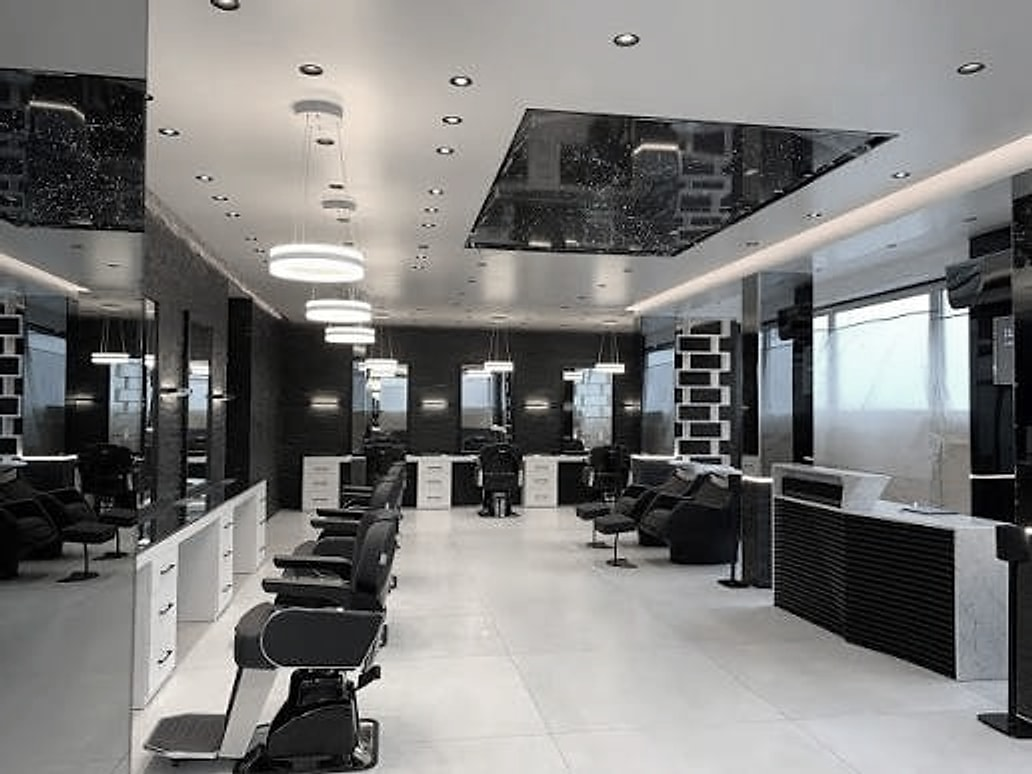
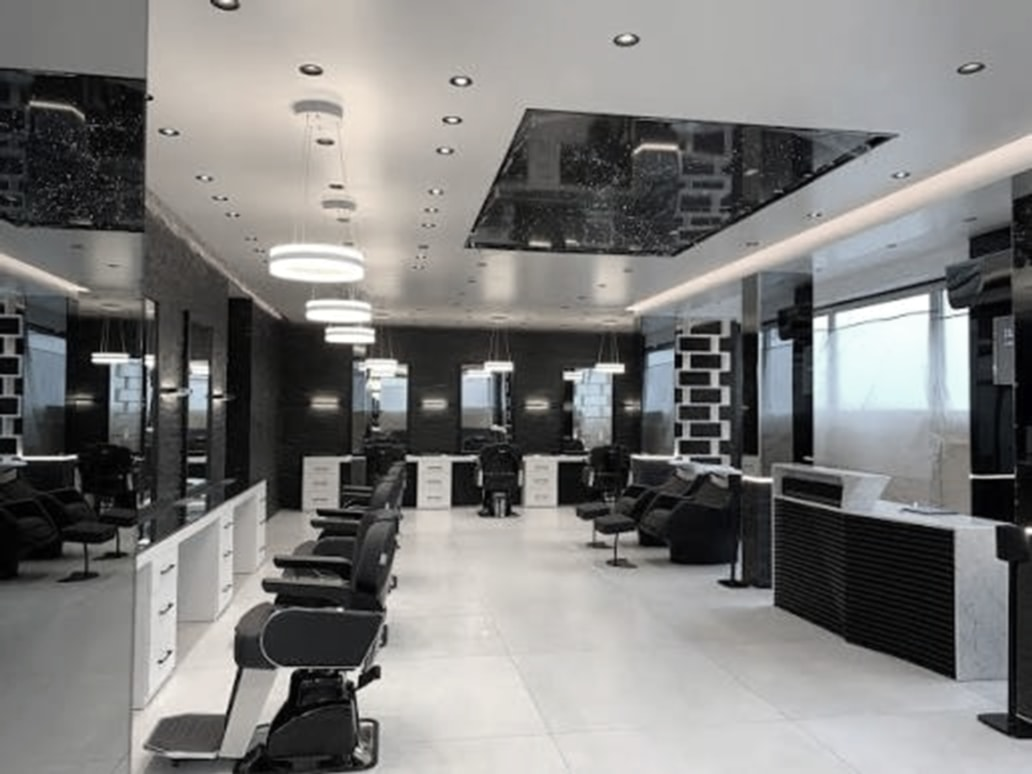
Demo-Buchung ohne Datenbank; Hero weicher
Auf Vercel ohne Supabase (oder mit BOOKING_DEMO=1) ist der Buchungsflow
voll klickbar und endet auf einer Bestätigungsseite mit Demo-Hinweis –
ohne Speichern und ohne E-Mails. Hero-Bild ohne Nachschärfen, weichere
Übergänge zum Text.

diff --git a/src/app/termin/bestaetigt/[id]/page.tsx b/src/app/termin/bestaetigt/[id]/page.tsx
@@ -8,8 +8,11 @@ import { euro, formatBerlin } from "@/lib/time";
 
 export const metadata: Metadata = { title: "Termin bestätigt", robots: { index: false } };
 
-export default async function ConfirmedPage({ params }: { params: Promise<{ id: string }> }) {
+type SP = Promise<Record<string, string | undefined>>;
+
+export default async function ConfirmedPage({ params, searchParams }: { params: Promise<{ id: string }>; searchParams: SP }) {
   const { id } = await params;
+  if (id === "demo") return <DemoConfirmation sp={await searchParams} />;
   if (!/^[0-9a-f-]{36}$/i.test(id)) notFound();
   const booking = await repo.getBooking(id);
   if (!booking) notFound();
@@ -27,17 +30,78 @@ export default async function ConfirmedPage({ params }: { params: Promise<{ id: 
   ];
 
   return (
+    <Confirmation
+      title={cancelled ? "Storniert." : <>Bis bald,<br />{firstName}.</>}
+      message={cancelled ? "Dieser Termin wurde storniert." : booking.email ? "Bestätigung ist per E-Mail unterwegs." : "Dein Termin ist gebucht."}
+      rows={rows}
+      actions={
+        !cancelled && (
+          <>
+            <a href={`/api/ics/${booking.id}`} className="btn btn-light w-full">
+              Zum Kalender hinzufügen
+            </a>
+            <Link href={`/termin/storno/${booking.cancel_token}`} className="btn btn-ghost-light w-full">
+              Termin stornieren
+            </Link>
+          </>
+        )
+      }
+    />
+  );
+}
+
+/** Demo-Modus: Daten kommen aus der URL, es existiert keine echte Buchung. */
+function DemoConfirmation({ sp }: { sp: Record<string, string | undefined> }) {
+  const start = sp.t && !Number.isNaN(Date.parse(sp.t)) ? sp.t : null;
+  if (!sp.n || !start) notFound();
+  const firstName = sp.n.trim().split(/\s+/)[0].slice(0, 40);
+  const rows: [string, string][] = [
+    ["Barber", sp.b || "–"],
+    ["Leistung", (sp.s ?? "").split("|").filter(Boolean).join(", ") || "–"],
+    ["Termin", formatBerlin(start, "EEE d.M. · HH:mm")],
+    ["Preis", `${euro(Number(sp.p) || 0)} vor Ort`],
+  ];
+  return (
+    <Confirmation
+      title={<>Bis bald,<br />{firstName}.</>}
+      message="Deine Buchung ist rausgegangen."
+      rows={rows}
+      notice="Demo-Modus: Es wurde keine echte Buchung angelegt und keine E-Mail verschickt."
+      actions={
+        <>
+          <Link href="/termin" className="btn btn-light w-full">
+            Nochmal durchklicken
+          </Link>
+          <Link href="/" className="btn btn-ghost-light w-full">
+            Zur Startseite
+          </Link>
+        </>
+      }
+    />
+  );
+}
+
+function Confirmation({
+  title,
+  message,
+  rows,
+  actions,
+  notice,
+}: {
+  title: React.ReactNode;
+  message: string;
+  rows: [string, string][];
+  actions: React.ReactNode;
+  notice?: string;
+}) {
+  return (
     <main className="starfield flex min-h-dvh flex-col items-center justify-center bg-night px-5 py-16 text-paper">
       <div className="w-full max-w-sm text-center">
         <Link href="/" aria-label="Zur Startseite" className="inline-block">
           <Logo className="mx-auto h-14 w-auto" />
         </Link>
-        <h1 className="headline mt-10 text-6xl">
-          {cancelled ? "Storniert." : <>Bis bald,<br />{firstName}.</>}
-        </h1>
-        <p className="mt-4 text-sm text-paper/70">
-          {cancelled ? "Dieser Termin wurde storniert." : booking.email ? "Bestätigung ist per E-Mail unterwegs." : "Dein Termin ist gebucht."}
-        </p>
+        <h1 className="headline mt-10 text-6xl">{title}</h1>
+        <p className="mt-4 text-sm text-paper/70">{message}</p>
 
         <dl className="mt-10 border-t border-paper/15 text-left text-sm">
           {rows.map(([k, v]) => (
@@ -48,16 +112,8 @@ export default async function ConfirmedPage({ params }: { params: Promise<{ id: 
           ))}
         </dl>
 
-        {!cancelled && (
-          <div className="mt-10 flex flex-col gap-3">
-            <a href={`/api/ics/${booking.id}`} className="btn btn-light w-full">
-              Zum Kalender hinzufügen
-            </a>
-            <Link href={`/termin/storno/${booking.cancel_token}`} className="btn btn-ghost-light w-full">
-              Termin stornieren
-            </Link>
-          </div>
-        )}
+        {actions && <div className="mt-10 flex flex-col gap-3">{actions}</div>}
+        {notice && <p className="mt-8 border border-paper/20 px-4 py-3 text-xs text-paper/70">{notice}</p>}
         <p className="mt-10 text-xs text-paper/50">
           {salon.address.street}, {salon.address.zip} {salon.address.city} ·{" "}
           <a href={`tel:${phoneIntl()}`} className="underline underline-offset-2">

diff --git a/src/app/termin/actions.ts b/src/app/termin/actions.ts
@@ -4,7 +4,7 @@ import { headers } from "next/headers";
 import { z } from "zod";
 import { ANY, assignBarber, getSlots, newCancelToken, rateLimited, resolveServices } from "@/lib/booking";
 import { bookingConfig } from "@/config/salon";
-import { bookingAvailable, repo } from "@/lib/db";
+import { isBookingDemo, repo } from "@/lib/db";
 import { notifySalon, sendBookingConfirmation } from "@/lib/mail";
 import { isValidDate } from "@/lib/time";
 import { SlotTakenError } from "@/lib/types";
@@ -38,11 +38,10 @@ const schema = z.object({
 
 export type BookInput = z.input<typeof schema>;
 export type BookResult =
-  | { ok: true; id: string }
+  | { ok: true; url: string }
   | { ok: false; error: string; field?: string; slotTaken?: boolean; slots?: SlotView[] };
 
 export async function book(input: BookInput): Promise<BookResult> {
-  if (!bookingAvailable) return { ok: false, error: "Online-Buchung ist gerade nicht verfügbar. Bitte ruf uns an." };
   const parsed = schema.safeParse(input);
   if (!parsed.success) {
     const issue = parsed.error.issues[0];
@@ -73,6 +72,18 @@ export async function book(input: BookInput): Promise<BookResult> {
   const startsAt = new Date(slot.startsAt);
   const endsAt = new Date(startsAt.getTime() + (durationMin + bookingConfig.bufferMin) * 60_000);
 
+  // Demo: alles geprüft wie echt, aber nichts speichern und keine Mails – nur die Bestätigungsseite zeigen.
+  if (isBookingDemo) {
+    const params = new URLSearchParams({
+      n: d.name,
+      b: barbers.find((b) => b.id === barberId)?.name ?? "",
+      s: chosen.map((x) => x.name).join("|"),
+      t: startsAt.toISOString(),
+      p: String(chosen.reduce((sum, x) => sum + x.price_cents, 0)),
+    });
+    return { ok: true, url: `/termin/bestaetigt/demo?${params}` };
+  }
+
   try {
     const booking = await repo.createBooking({
       barber_id: barberId,
@@ -94,7 +105,7 @@ export async function book(input: BookInput): Promise<BookResult> {
     });
     const barberName = barbers.find((b) => b.id === barberId)?.name ?? "";
     await Promise.allSettled([sendBookingConfirmation(booking, barberName), notifySalon(booking, barberName)]);
-    return { ok: true, id: booking.id };
+    return { ok: true, url: `/termin/bestaetigt/${booking.id}` };
   } catch (e) {
     if (e instanceof SlotTakenError) {
       const again = await loadSlots(d.barber, d.services, d.date);

diff --git a/src/app/termin/page.tsx b/src/app/termin/page.tsx
@@ -3,9 +3,7 @@ import path from "node:path";
 import type { Metadata } from "next";
 import { BookingFlow, type FlowBarber, type FlowService } from "./BookingFlow";
 import { ANY, getOpenDays } from "@/lib/booking";
-import Link from "next/link";
-import { phoneIntl, salon, whatsappUrl } from "@/config/salon";
-import { bookingAvailable, repo } from "@/lib/db";
+import { isBookingDemo, repo } from "@/lib/db";
 
 export const metadata: Metadata = {
   title: "Termin buchen",
@@ -18,7 +16,6 @@ const one = (v: string | string[] | undefined) => (Array.isArray(v) ? v[0] : v);
 
 export default async function TerminPage({ searchParams }: { searchParams: SP }) {
   const sp = await searchParams;
-  if (!bookingAvailable) return <BookingUnavailable />;
   const [barbers, services, days] = await Promise.all([repo.listBarbers(), repo.listServices(), getOpenDays()]);
 
   const flowBarbers: FlowBarber[] = barbers.map((b) => {
@@ -48,28 +45,6 @@ export default async function TerminPage({ searchParams }: { searchParams: SP })
     step: Number(one(sp.step)) || null,
   };
 
-  return <BookingFlow barbers={flowBarbers} services={flowServices} days={days} initial={initial} />;
+  return <BookingFlow barbers={flowBarbers} services={flowServices} days={days} initial={initial} demo={isBookingDemo} />;
 }
 
-function BookingUnavailable() {
-  return (
-    <main className="mx-auto flex min-h-dvh w-full max-w-md flex-col justify-center px-5 py-16">
-      <p className="label">Termin buchen</p>
-      <h1 className="headline mt-3 text-5xl">Gleich online.</h1>
-      <p className="mt-4 text-[15px] leading-relaxed text-mute">
-        Die Online-Buchung startet in Kürze. Bis dahin kurz anrufen oder per WhatsApp schreiben – oder einfach vorbeikommen.
-      </p>
-      <div className="mt-8 flex flex-col gap-3">
-        <a href={`tel:${phoneIntl()}`} className="btn btn-dark">
-          Anrufen · {salon.phone}
-        </a>
-        <a href={whatsappUrl("Hi, ich hätte gern einen Termin.")} className="btn border border-ink" target="_blank" rel="noopener noreferrer">
-          WhatsApp
-        </a>
-        <Link href="/" className="mt-2 text-center text-sm underline underline-offset-4">
-          Zur Startseite
-        </Link>
-      </div>
-    </main>
-  );
-}

diff --git a/src/app/termin/BookingFlow.tsx b/src/app/termin/BookingFlow.tsx
@@ -37,11 +37,13 @@ export function BookingFlow({
   services,
   days,
   initial,
+  demo = false,
 }: {
   barbers: FlowBarber[];
   services: FlowService[];
   days: Day[];
   initial: Initial;
+  demo?: boolean;
 }) {
   const router = useRouter();
   const firstOpen = days.find((d) => d.open)?.date ?? days[0].date;
@@ -147,7 +149,7 @@ export function BookingFlow({
         website: form.website,
       });
       if (res.ok) {
-        router.push(`/termin/bestaetigt/${res.id}`);
+        router.push(res.url);
         return;
       }
       if (res.slotTaken) {
@@ -201,6 +203,11 @@ export function BookingFlow({
             {titles[step - 1].h}
           </h1>
           <p className="mt-2 text-sm text-mute">{titles[step - 1].sub}</p>
+          {demo && step === 4 && (
+            <p className="mt-4 border-l-2 border-ink pl-3 text-xs text-mute">
+              Demo-Modus: Es wird keine echte Buchung angelegt und keine E-Mail verschickt.
+            </p>
+          )}
 
           {error && step !== 4 && (
             <p role="alert" className="mt-6 border-l-2 border-ink pl-3 text-sm">

diff --git a/src/app/(site)/page.tsx b/src/app/(site)/page.tsx
@@ -77,10 +77,10 @@ export default async function HomePage() {
             sizes="(min-width: 768px) 50vw, 100vw"
             quality={85}
             priority
-            imgClassName="object-[55%_40%] brightness-[.82]"
+            imgClassName="object-[55%_40%] brightness-[.8]"
           />
-          <div className="absolute inset-x-0 bottom-0 h-1/2 bg-gradient-to-t from-night to-transparent md:h-1/4" aria-hidden />
-          <div className="absolute inset-y-0 left-0 hidden w-2/5 bg-gradient-to-r from-night to-transparent md:block" aria-hidden />
+          <div className="absolute inset-x-0 bottom-0 h-1/2 bg-gradient-to-t from-night to-transparent md:h-1/3" aria-hidden />
+          <div className="absolute inset-y-0 left-0 hidden w-3/5 bg-gradient-to-r from-night via-night/50 to-transparent md:block" aria-hidden />
         </div>
         <div className="relative mx-auto flex max-w-6xl flex-col justify-end px-5 pb-14 -mt-10 md:mt-0 md:min-h-[560px] md:px-8 md:pb-16 md:pt-24">
           <OpenStatus className="text-paper/70" />

diff --git a/src/lib/db/index.ts b/src/lib/db/index.ts
@@ -8,10 +8,11 @@ export const isSupabaseConfigured = Boolean(
 );
 
 /**
- * Online-Buchung nur mit dauerhafter Datenbank: Supabase oder lokal der Datei-Store.
- * Auf Vercel ohne Supabase zeigt /termin stattdessen Telefon/WhatsApp.
+ * Demo-Modus: Buchungsflow voll klickbar, aber es wird nichts gespeichert und keine Mail verschickt.
+ * Automatisch auf Vercel ohne Supabase (kein dauerhafter Speicher) oder erzwungen per BOOKING_DEMO=1.
  */
-export const bookingAvailable = isSupabaseConfigured || !process.env.VERCEL;
+export const isBookingDemo =
+  process.env.BOOKING_DEMO === "1" || (!isSupabaseConfigured && Boolean(process.env.VERCEL));
 
 /** Supabase, sobald konfiguriert – sonst lokaler Datei-Store (.data/db.json) für die Entwicklung. */
 export const repo: Repo = isSupabaseConfigured ? supabaseRepo : localRepo;

diff --git a/src/lib/db/local.ts b/src/lib/db/local.ts
@@ -54,7 +54,7 @@ function seed(): Db {
   };
 }
 
-// Auf Vercel ist das Dateisystem schreibgeschützt: dort nur Seed-Daten im Speicher (Buchung ist dann deaktiviert, siehe bookingAvailable).
+// Auf Vercel ist das Dateisystem schreibgeschützt: dort nur Seed-Daten im Speicher (Buchung läuft dann im Demo-Modus, siehe isBookingDemo).
 const memoryOnly = Boolean(process.env.VERCEL);
 let memory: Db | null = null;
 

diff --git a/README.md b/README.md
@@ -16,6 +16,12 @@ Ohne Supabase-Variablen läuft alles mit einem **lokalen Datei-Store** (`.data/d
 Ohne `RESEND_API_KEY` werden alle E-Mails nur in der Konsole ausgegeben.
 Im Dev-Modus ist `/admin` ohne Login erreichbar (mit Hinweis-Banner). In Produktion ist Supabase Pflicht.
 
+## Demo-Modus
+Solange auf Vercel kein Supabase konfiguriert ist (oder `BOOKING_DEMO=1` gesetzt ist), läuft die Buchung als **Demo**:
+Der Flow ist komplett klickbar (echte freie Zeiten aus den Öffnungszeiten), am Ende erscheint die Bestätigungsseite –
+es wird aber **nichts gespeichert und keine E-Mail verschickt**. Hinweise dazu stehen in Schritt 4 und auf der Bestätigung.
+Sobald die Supabase-Variablen gesetzt sind (und `BOOKING_DEMO` leer ist), ist die Buchung automatisch live.
+
 ## Setup Produktion
 
 ### 1. Supabase
